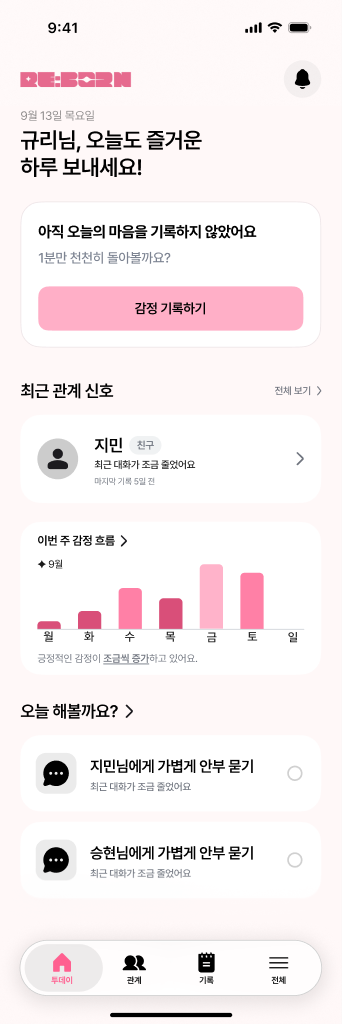
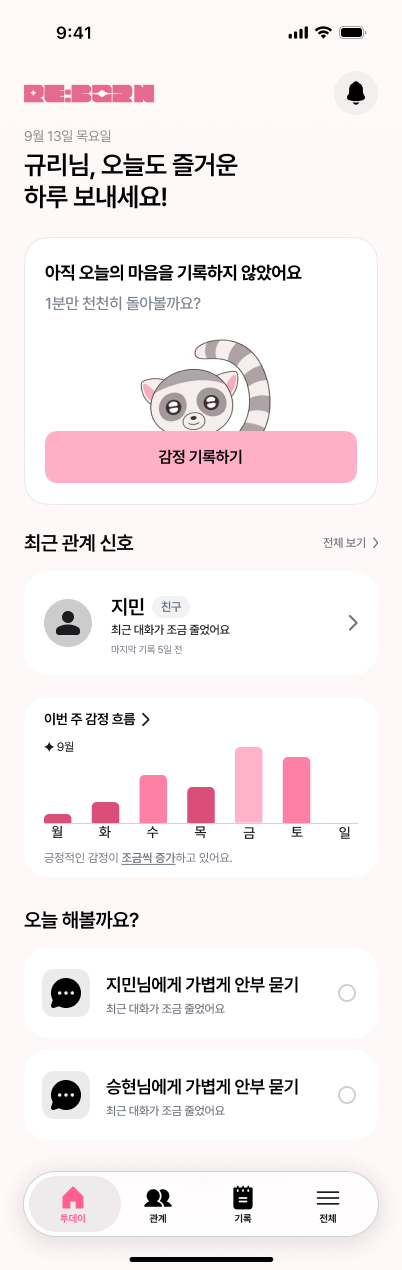
feat: 홈 기록 카드(Before)에 여우원숭이 일러스트와 최신 Figma 배치 반영

diff --git a/lib/features/home/presentation/widgets/record_card_before.dart b/lib/features/home/presentation/widgets/record_card_before.dart
@@ -1,5 +1,6 @@
 import 'package:flutter/material.dart';
 
+import '../../../../app/theme/app_assets.dart';
 import '../../../../app/theme/app_colors.dart';
 import '../../../../app/theme/app_spacing.dart';
 import '../../../../app/theme/app_text_styles.dart';
@@ -7,61 +8,75 @@ import '../../../../shared/widgets/app_card.dart';
 import '../../../../shared/widgets/centered_line.dart';
 import '../../../../shared/widgets/cta_button.dart';
 
-/// 오늘 아직 기록하지 않았을 때의 카드 (Figma `UnWrite` Before 수정안: 흰색 + 테두리 1px, 높이 172).
+/// 오늘 아직 기록하지 않았을 때의 카드 (Figma `UnWrite` Before 최신 안: 흰색 + 테두리 1px, 높이 268,
+/// 버튼 뒤에서 여우원숭이가 얼굴을 내민다, docs/DESIGN_SYSTEM.md 5.2).
 class RecordCardBefore extends StatelessWidget {
   const RecordCardBefore({super.key, required this.onRecord});
 
   final VoidCallback onRecord;
+
+  // 카드 바깥 위쪽 기준: 제목 27, 부제 57, 일러스트 96, 버튼 194(52), 아래 22.
+  static const _topToTitle = 27.0;
+  static const _titleToSubtitle = 10.0;
+  static const _subtitleToMascot = 19.0;
+  static const _textLineHeight = 20.0;
 
   @override
   Widget build(BuildContext context) {
     final colors = context.colors;
     return AppCard.outlined(
       height: HomeLayout.recordCardHeightBefore,
-      // 위 1px 빈 줄, 아래 21 (docs/DESIGN_SYSTEM.md 5.2).
+      // 테두리 1px 안쪽에서 20 → 바깥 기준 21.
       padding: const EdgeInsets.fromLTRB(
-        AppSpacing.recordCardPadding,
-        1,
-        AppSpacing.recordCardPadding,
-        21,
+        AppSpacing.recordCardPadding + AppSpacing.cardOutlineWidth,
+        _topToTitle,
+        AppSpacing.recordCardPadding + AppSpacing.cardOutlineWidth,
+        0,
       ),
       child: Column(
+        crossAxisAlignment: CrossAxisAlignment.start,
         children: [
-          const SizedBox(height: 24),
-          SizedBox(
-            height: 50,
-            child: Stack(
-              children: [
-                Positioned(
-                  left: 0,
-                  top: 0,
-                  child: CenteredLine(
-                    height: 20,
-                    child: Text(
-                      '아직 오늘의 마음을 기록하지 않았어요',
-                      style: AppTextStyles.recordCardTitleBefore.copyWith(
-                        color: colors.textBlack,
-                      ),
-                    ),
-                  ),
-                ),
-                Positioned(
-                  left: 0,
-                  top: 30,
-                  child: CenteredLine(
-                    height: 20,
-                    child: Text(
-                      '1분만 천천히 돌아볼까요?',
-                      style: AppTextStyles.recordCardSubtitle.copyWith(
-                        color: colors.recordCardSubtitle,
-                      ),
-                    ),
-                  ),
-                ),
-              ],
+          CenteredLine(
+            height: _textLineHeight,
+            child: Text(
+              '아직 오늘의 마음을 기록하지 않았어요',
+              style: AppTextStyles.recordCardTitleBefore.copyWith(
+                color: colors.textBlack,
+              ),
             ),
           ),
-          const SizedBox(height: 24),
+          const SizedBox(height: _titleToSubtitle),
+          CenteredLine(
+            height: _textLineHeight,
+            child: Text(
+              '1분만 천천히 돌아볼까요?',
+              style: AppTextStyles.recordCardSubtitle.copyWith(
+                color: colors.recordCardSubtitle,
+              ),
+            ),
+          ),
+          const SizedBox(height: _subtitleToMascot),
+          // 이미지는 정사각이고 아래쪽이 잘려, 버튼 뒤에서 위쪽 98px만 보인다.
+          Align(
+            child: SizedBox(
+              width: HomeLayout.mascotWidth,
+              height: HomeLayout.mascotHeight,
+              child: ClipRect(
+                child: OverflowBox(
+                  alignment: Alignment.topCenter,
+                  minHeight: HomeLayout.mascotImageHeight,
+                  maxHeight: HomeLayout.mascotImageHeight,
+                  child: Image.asset(
+                    AppAssets.mascotLemur,
+                    width: HomeLayout.mascotWidth,
+                    height: HomeLayout.mascotImageHeight,
+                    fit: BoxFit.fill,
+                    excludeFromSemantics: true,
+                  ),
+                ),
+              ),
+            ),
+          ),
           CtaButton(
             label: '감정 기록하기',
             height: HomeLayout.ctaButtonHeightBefore,

diff --git a/test/features/home/presentation/today_screen_test.dart b/test/features/home/presentation/today_screen_test.dart
@@ -5,6 +5,7 @@ import 'package:flutter_test/flutter_test.dart';
 import 'package:reborn_app/app/app.dart';
 import 'package:reborn_app/app/data_providers.dart';
 import 'package:reborn_app/app/main_shell.dart';
+import 'package:reborn_app/app/theme/app_assets.dart';
 import 'package:reborn_app/app/theme/app_colors.dart';
 import 'package:reborn_app/app/theme/app_radii.dart';
 import 'package:reborn_app/app/theme/app_spacing.dart';
@@ -243,15 +244,15 @@ void main() {
       Border.all(color: AppColors.light.cardBorder, width: 1),
     );
 
-    // 제목·부제는 카드 안쪽 왼쪽(20)에서 시작한다.
+    // 제목·부제는 테두리 1px 안쪽 왼쪽(20) → 바깥 기준 21에서 시작한다.
     final cardLeft = tester.getTopLeft(find.byType(RecordCardBefore)).dx;
     expect(
       tester.getTopLeft(find.text('아직 오늘의 마음을 기록하지 않았어요')).dx - cardLeft,
-      closeTo(20, 0.5),
+      closeTo(21, 0.5),
     );
     expect(
       tester.getTopLeft(find.text('1분만 천천히 돌아볼까요?')).dx - cardLeft,
-      closeTo(20, 0.5),
+      closeTo(21, 0.5),
     );
 
     final button = find.ancestor(
@@ -264,6 +265,42 @@ void main() {
     final label = tester.widget<Text>(find.text('감정 기록하기'));
     expect(label.style!.color, AppColors.light.onCtaSoft);
     expect(label.style!.fontSize, 16);
+  });
+
+  testWidgets('기록 카드(Before)에는 버튼 뒤로 얼굴만 내민 여우원숭이가 있다 (151×98, 위쪽만 보임)', (
+    tester,
+  ) async {
+    useDesignScreen(tester);
+    await pumpHome(tester);
+
+    final card = tester.getRect(find.byType(RecordCardBefore));
+    final mascot = find.byWidgetPredicate(
+      (w) =>
+          w is Image &&
+          w.image is AssetImage &&
+          (w.image as AssetImage).assetName == AppAssets.mascotLemur,
+    );
+    expect(mascot, findsOneWidget);
+    // 보이는 영역은 151×98, 이미지 자체는 정사각(높이 ≈151)이라 아래가 잘린다.
+    final visible = tester.getRect(
+      find.ancestor(of: mascot, matching: find.byType(ClipRect)).first,
+    );
+    expect(visible.size, const Size(151, 98));
+    expect(
+      tester.getSize(mascot),
+      const Size(HomeLayout.mascotWidth, HomeLayout.mascotImageHeight),
+    );
+    // 카드 위에서 96, 가로 가운데, 버튼은 그 바로 아래(194)에서 시작한다.
+    expect(visible.top - card.top, closeTo(96, 0.5));
+    expect(visible.center.dx, closeTo(card.center.dx, 0.5));
+    final button = tester.getRect(
+      find
+          .ancestor(of: find.text('감정 기록하기'), matching: find.byType(Container))
+          .first,
+    );
+    expect(button.top - card.top, closeTo(194, 0.5));
+    expect(button.height, 52);
+    expect(button.left - card.left, closeTo(21, 0.5));
   });
 
   testWidgets('폭 360에서도 오버플로 없이 카드가 폭을 채운다', (tester) async {
@@ -280,8 +317,8 @@ void main() {
     await pumpHome(tester);
 
     final scrollable = tester.state<ScrollableState>(find.byType(Scrollable));
-    // 내용 높이 1205(Figma 프레임) − 화면 874
-    expect(scrollable.position.maxScrollExtent, closeTo(1205 - 874, 1));
+    // 내용 높이 1288(Figma 최신 프레임) − 화면 874
+    expect(scrollable.position.maxScrollExtent, closeTo(1288 - 874, 1));
   });
 
   testWidgets('상단 바는 스크롤해도 화면 위에 고정되고 블러 배경을 가진다', (tester) async {
@@ -298,10 +335,8 @@ void main() {
     final headerY = tester.getTopLeft(find.byType(HomeHeader)).dy;
     final recordCardY = tester.getTopLeft(find.byType(RecordCardBefore)).dy;
 
-    await tester.drag(
-      find.byType(SingleChildScrollView),
-      const Offset(0, -200),
-    );
+    // 글자 위(눌리는 위젯이 없는 곳)에서 끈다. 버튼 위에서 끌면 탭 인식기 때문에 시작 거리가 달라진다.
+    await tester.dragFrom(const Offset(300, 180), const Offset(0, -200));
     await tester.pumpAndSettle();
 
     expect(tester.getTopLeft(find.byType(HomeHeader)).dy, headerY);
@@ -317,10 +352,7 @@ void main() {
     await pumpHome(tester);
 
     final scrollable = tester.state<ScrollableState>(find.byType(Scrollable));
-    await tester.drag(
-      find.byType(SingleChildScrollView),
-      const Offset(0, -300),
-    );
+    await tester.dragFrom(const Offset(300, 180), const Offset(0, -300));
     await tester.pumpAndSettle();
     expect(scrollable.position.pixels, closeTo(300, 1));
 

diff --git a/lib/app/theme/app_spacing.dart b/lib/app/theme/app_spacing.dart
@@ -42,7 +42,7 @@ abstract final class HomeLayout {
   static const scrollToTopDuration = Duration(milliseconds: 500);
 
   // 카드 높이
-  static const recordCardHeightBefore = 172.0;
+  static const recordCardHeightBefore = 268.0;
   static const recordCardHeightAfter = 399.0;
   static const ctaButtonHeightBefore = 52.0;
   static const ctaButtonHeightAfter = 48.0;
@@ -56,7 +56,7 @@ abstract final class HomeLayout {
   static const dateHeight = 17.0;
   static const dateToGreeting = 4.0;
   static const greetingToRecordCard = 24.0;
-  static const recordCardToSignalTitle = 35.0;
+  static const recordCardToSignalTitle = 22.0;
   static const sectionTitleHeight = 32.0;
   static const sectionTitleToCard = 12.0;
   static const signalCardToGraph = 22.0;
@@ -66,12 +66,18 @@ abstract final class HomeLayout {
   static const dateY = 128.0;
   static const greetingY = 149.0;
   static const recordCardY = 237.0;
-  static const signalTitleY = 444.0;
-  static const signalCardY = 488.0;
-  static const graphCardY = 614.0;
-  static const actionTitleY = 821.0;
-  static const actionCardY1 = 865.0;
-  static const actionCardY2 = 967.0;
+  static const signalTitleY = 527.0;
+  static const signalCardY = 571.0;
+  static const graphCardY = 697.0;
+  static const actionTitleY = 904.0;
+  static const actionCardY1 = 948.0;
+  static const actionCardY2 = 1050.0;
+
+  // 기록 카드(Before) 안쪽: 여우원숭이 일러스트(Figma `736:309`). 박스 151×98 안에 이미지 높이 ≈151(153.85%)을
+  // 위쪽 정렬로 놓아 아래가 잘리고, 버튼 뒤에서 머리·귀·꼬리만 보인다.
+  static const mascotWidth = 151.0;
+  static const mascotHeight = 98.0;
+  static const mascotImageHeight = 150.77;
 
   // 아이콘·아바타
   static const avatarSize = 48.0;

diff --git a/lib/app/theme/app_assets.dart b/lib/app/theme/app_assets.dart
@@ -43,6 +43,9 @@ abstract final class AppAssets {
   /// 스플래시 화면 로고 마크 (2000×2000, 배경 투명).
   static const logoMark = 'assets/images/logo_mark.png';
 
+  /// 기록 카드(Before)의 여우원숭이 일러스트 (604×604, 배경 투명, 원본 1254×1254를 줄임).
+  static const mascotLemur = 'assets/images/mascot_lemur.png';
+
   /// iOS 네이티브 탭 바 라벨용 글꼴 파일(UIKit에 직접 등록한다). Flutter 글자는 pubspec의 Pretendard를 쓴다.
   static const pretendardBold = 'assets/fonts/Pretendard-Bold.otf';
 
@@ -72,6 +75,7 @@ abstract final class AppAssets {
     radioCircleAfter,
     logo,
     logoMark,
+    mascotLemur,
     pretendardBold,
   ];
 }
